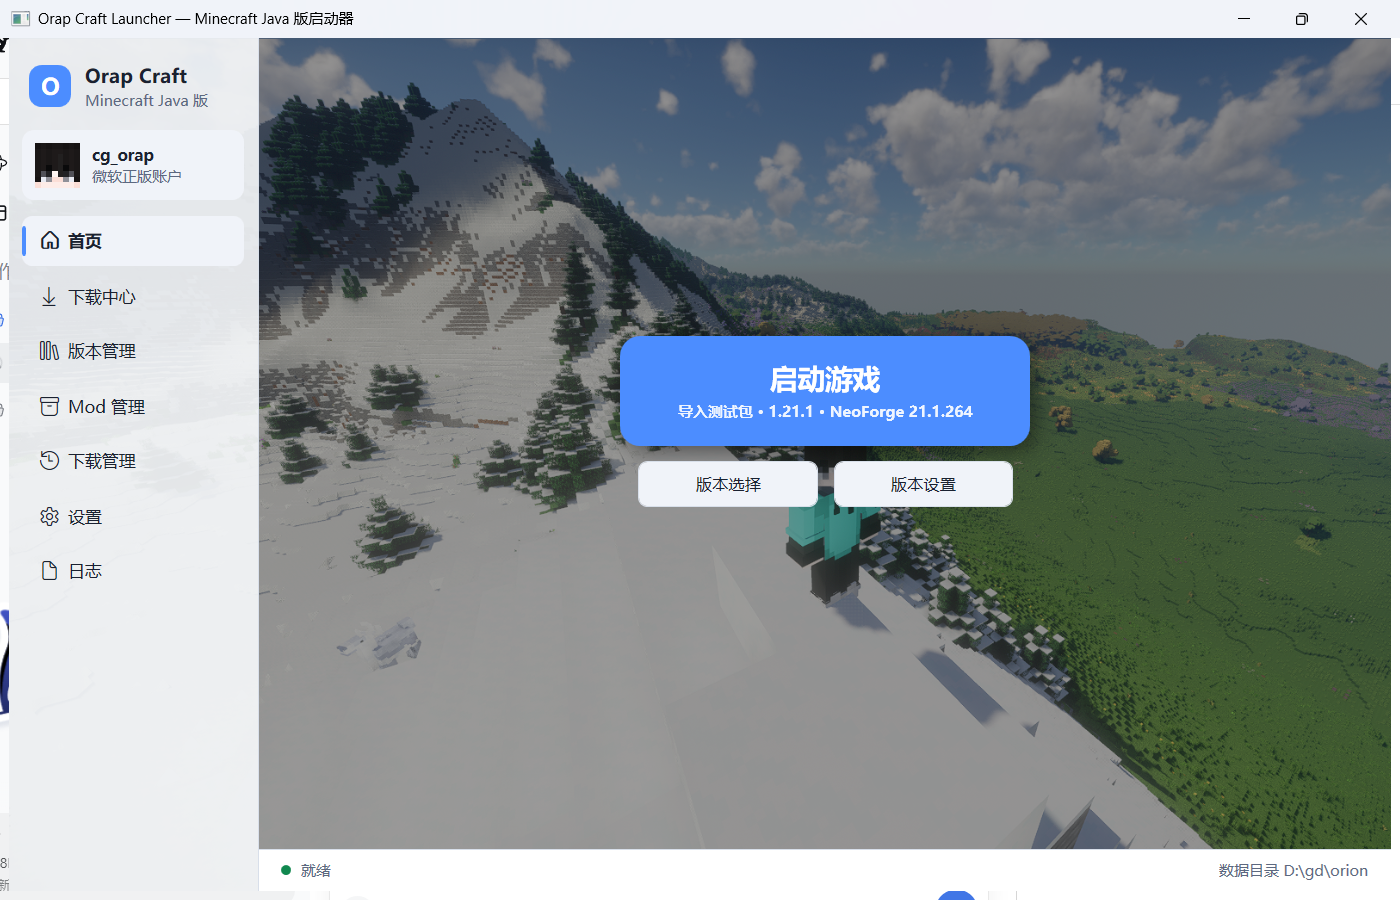
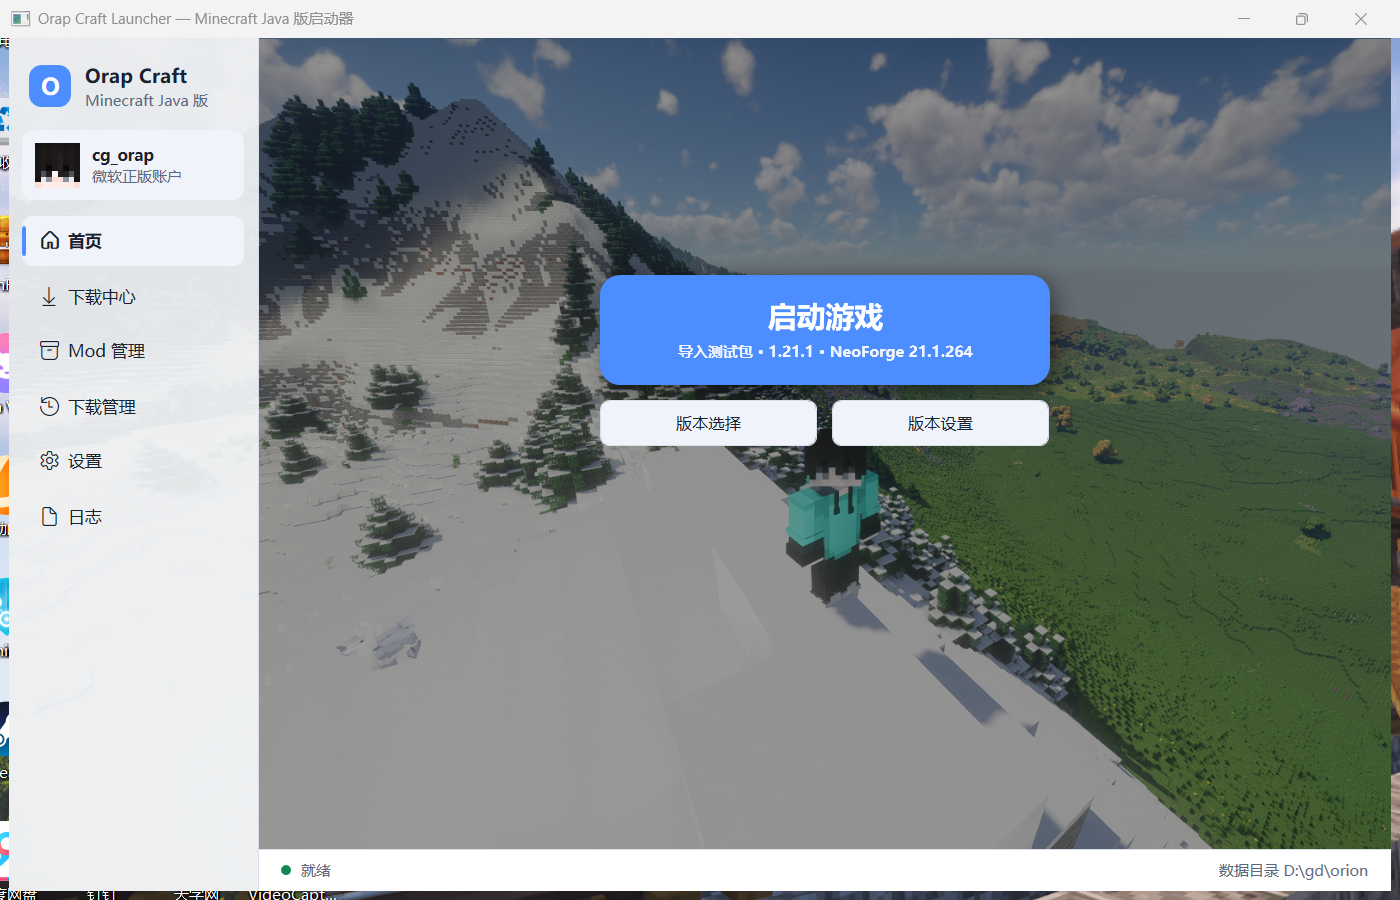
Fix the version-picker button doing nothing; move version settings onto the home page
- NavigateCore fell back to NavItems[0] for keys that are not rail entries, so
  "version-picker" silently re-navigated to 首页 (the button looked dead). The rail
  highlight now only moves for real rail entries, and the page is resolved from the key.
- 版本管理 is no longer a rail entry; the home page 版本设置 button opens that screen.
- Home buttons moved further down (bottom spacer 1.7x) and the launch button is now
  360x88 with 23px caption, aligned with the two small buttons below it.

Verified by UI automation: clicking 版本选择 opens the picker page (back button present)
and 版本设置 opens the version management page; screenshot of the new home layout.

diff --git a/src/Orion.App/Views/HomeView.xaml b/src/Orion.App/Views/HomeView.xaml
@@ -10,11 +10,11 @@
         <Style x:Key="LaunchHeroButton" TargetType="Button">
             <Setter Property="Foreground" Value="#FFFFFF" />
             <Setter Property="FontFamily" Value="Microsoft YaHei UI, Segoe UI" />
-            <Setter Property="FontSize" Value="22" />
+            <Setter Property="FontSize" Value="21" />
             <Setter Property="FontWeight" Value="SemiBold" />
             <Setter Property="Cursor" Value="Hand" />
-            <Setter Property="MinWidth" Value="264" />
-            <Setter Property="Padding" Value="46,20" />
+            <Setter Property="MinWidth" Value="280" />
+            <Setter Property="Padding" Value="40,14" />
             <Setter Property="Template">
                 <Setter.Value>
                     <ControlTemplate TargetType="Button">
@@ -58,19 +58,19 @@
             <Grid.RowDefinitions>
                 <RowDefinition Height="*" />
                 <RowDefinition Height="Auto" />
-                <RowDefinition Height="1.15*" />
+                <RowDefinition Height="1.7*" />
             </Grid.RowDefinitions>
 
             <StackPanel Grid.Row="1" HorizontalAlignment="Center" Margin="24,0,24,0">
             <!-- PCL-style launch button: the action in large text, the target version underneath -->
-            <Button Style="{StaticResource LaunchHeroButton}"
+            <Button Style="{StaticResource LaunchHeroButton}" Width="360" Height="88"
                     Command="{Binding LaunchCommand}"
                     AutomationProperties.AutomationId="LaunchButton">
                 <StackPanel HorizontalAlignment="Center">
                     <TextBlock Text="{Binding LaunchButtonText}" HorizontalAlignment="Center"
-                               FontSize="22" FontWeight="SemiBold" Foreground="#FFFFFF" />
+                               FontSize="23" FontWeight="SemiBold" Foreground="#FFFFFF" />
                     <TextBlock Text="{Binding LaunchVersionLine}" HorizontalAlignment="Center"
-                               FontSize="12" Margin="0,5,0,0" MaxWidth="300"
+                               FontSize="12" Margin="0,6,0,0" MaxWidth="320"
                                Foreground="#D9FFFFFF"
                                TextTrimming="CharacterEllipsis" TextWrapping="NoWrap"
                                AutomationProperties.AutomationId="LaunchVersionLine" />
@@ -78,7 +78,7 @@
             </Button>
 
             <!-- secondary actions, side by side like the reference launcher -->
-            <Grid Margin="0,12,0,0" HorizontalAlignment="Center" Width="300">
+            <Grid Margin="0,12,0,0" HorizontalAlignment="Center" Width="360">
                 <Grid.ColumnDefinitions>
                     <ColumnDefinition Width="*" />
                     <ColumnDefinition Width="*" />

diff --git a/src/Orion.App/ViewModels/MainViewModel.cs b/src/Orion.App/ViewModels/MainViewModel.cs
@@ -161,7 +161,6 @@ public sealed class MainViewModel : ObservableObject
         [
             new NavItem("home", "首页", "\uE80F"),
             new NavItem("catalog", "下载中心", "\uE896"),
-            new NavItem("instances", "版本管理", "\uE8F1"),
             new NavItem("mods", "Mod 管理", "\uE7B8"),
             new NavItem("downloads", "下载管理", "\uE81C"),
             new NavItem("settings", "设置", "\uE713"),
@@ -399,15 +398,17 @@ public sealed class MainViewModel : ObservableObject
 
     private void NavigateCore(string key)
     {
-        var item = NavItems.FirstOrDefault(n => n.Key == key) ?? NavItems[0];
-        if (!ReferenceEquals(_selectedNavItem, item))
+        // Sub-pages such as "version-picker" are not entries of the rail: only move the highlight
+        // when the key really is a rail entry, otherwise the page would silently stay on 首页.
+        var item = NavItems.FirstOrDefault(n => n.Key == key);
+        if (item is not null && !ReferenceEquals(_selectedNavItem, item))
         {
             _selectedNavItem = item;
             OnPropertyChanged(nameof(SelectedNavItem));
         }
 
-        NavKey = item.Key;
-        CurrentPage = item.Key switch
+        NavKey = item?.Key ?? key;
+        CurrentPage = key switch
         {
             "versions" => CatalogPage,   // legacy route: versions now live in the download centre
             "catalog" => CatalogPage,
@@ -420,11 +421,11 @@ public sealed class MainViewModel : ObservableObject
             _ => Home,
         };
 
-        if (item.Key == "catalog") _ = CatalogPage.InitializeAsync();
-        if (item.Key == "version-picker") VersionPickerPage.Refresh();
-        if (item.Key == "instances") _ = InstancesPage.LoadAsync();
-        if (item.Key == "mods") _ = ModsPage.LoadModsAsync();
-        if (item.Key == "home") _ = Home.RefreshAsync();
+        if (key == "catalog") _ = CatalogPage.InitializeAsync();
+        if (key == "version-picker") VersionPickerPage.Refresh();
+        if (key == "instances") _ = InstancesPage.LoadAsync();
+        if (key == "mods") _ = ModsPage.LoadModsAsync();
+        if (key == "home") _ = Home.RefreshAsync();
     }
 
     /// <summary>Loads accounts, instances, Java runtimes and version metadata into the shell.</summary>

diff --git a/src/Orion.App/ViewModels/HomeViewModel.cs b/src/Orion.App/ViewModels/HomeViewModel.cs
@@ -45,7 +45,7 @@ public sealed class HomeViewModel : ObservableObject
         ChooseBackgroundCommand = new RelayCommand(ChooseBackground);
         ClearBackgroundCommand = new RelayCommand(ClearBackground, () => HasBackgroundImage);
         OpenVersionPickerCommand = new RelayCommand(() => _main.Navigate("version-picker"));
-        OpenVersionSettingsCommand = new RelayCommand(() => _main.Navigate("instances"));
+        OpenVersionSettingsCommand = new RelayCommand(() => _main.Navigate("instances"));   // sub-page, not a rail entry
 
         ReloadBackground();
     }
